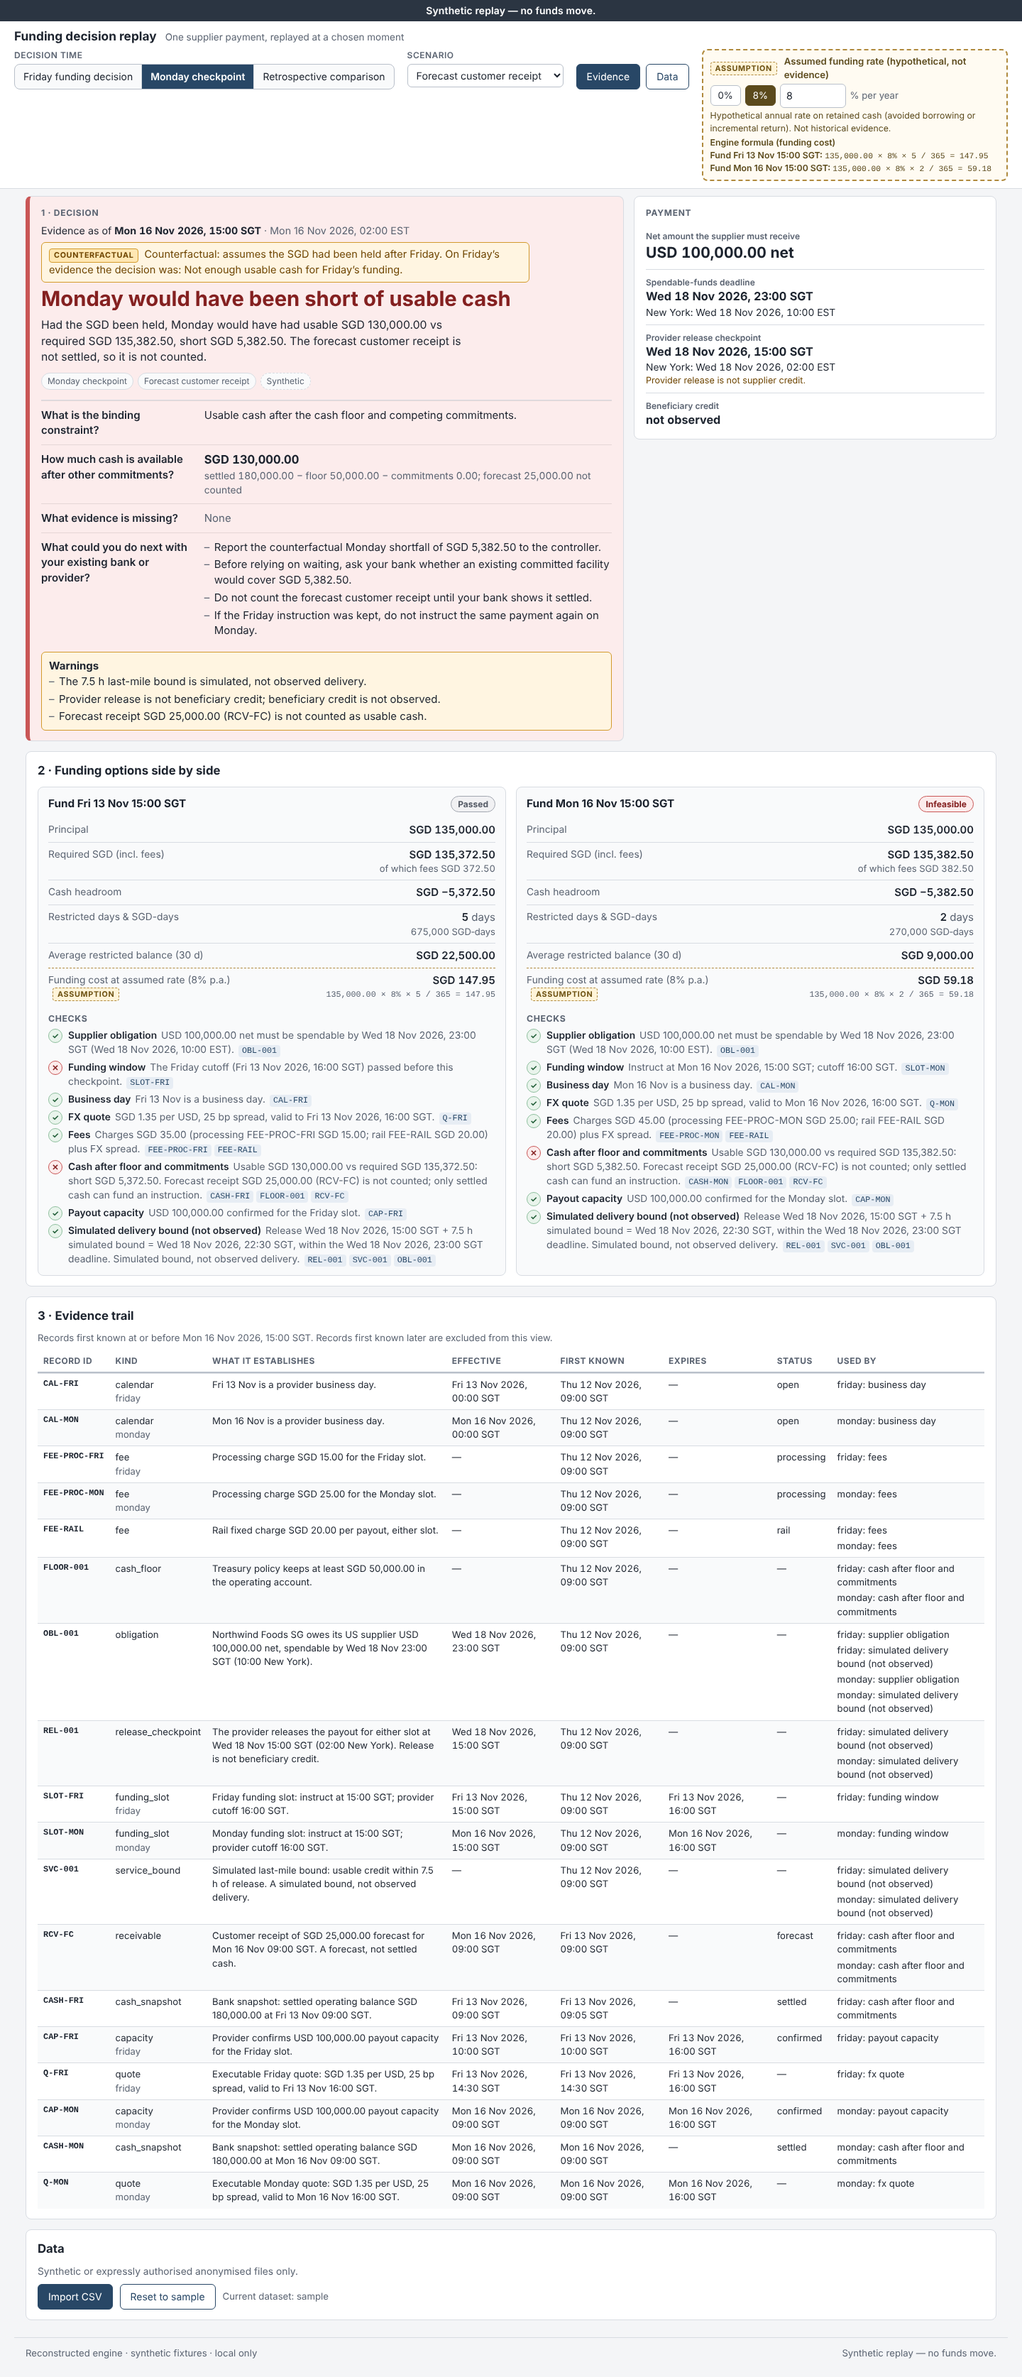
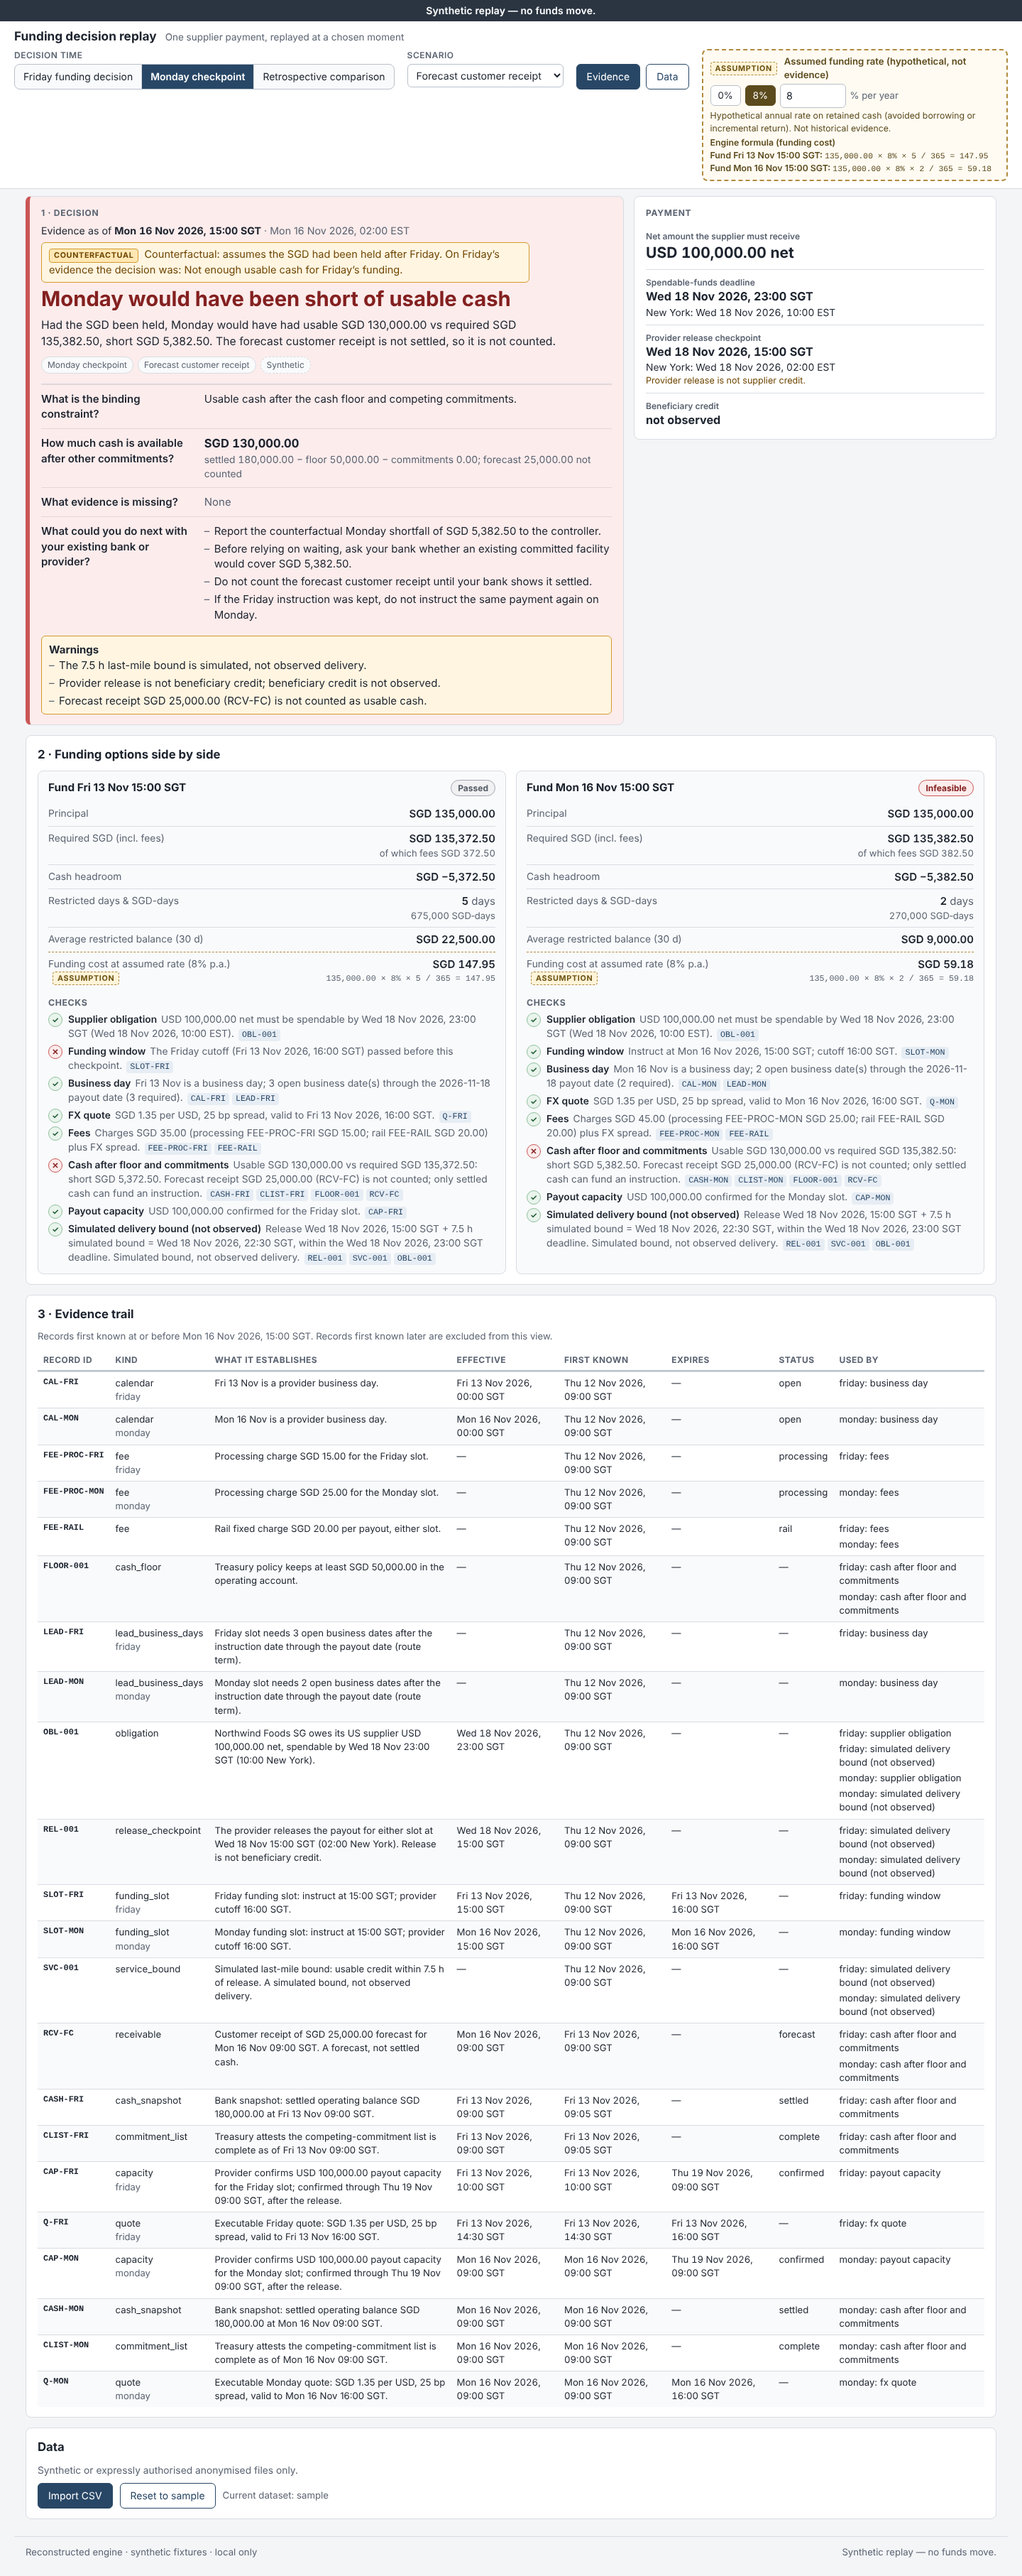
UI: bank-balance check panel (24 h demo policy), no Friday comparison, 9 scenarios; e2e 123 checks; refreshed screenshots
Claude-Session: https://claude.ai/code/session_015s4Kk7vKgcSQ7csnYmEH5j

diff --git a/funding-replay/app/static/app.js b/funding-replay/app/static/app.js
@@ -28,6 +28,7 @@
     HINDSIGHT: 'hindsight',
     MANUAL_REVIEW: 'amber',
     NO_DECISION: 'amber',
+    NEED_NEWER_BALANCE: 'amber',   // unknown, never green: cash is not established either way
     INSUFFICIENT_CASH: 'red',
     DEADLINE_AT_RISK: 'red'
   };
@@ -310,8 +311,43 @@
       noteNode,
       el('p', { class: 'headline', id: 'headline', text: show(d.headline) }),
       el('p', { class: 'reason', id: 'reason', text: show(d.reason) }),
+      renderBalanceCheck(d),
       chips
     ].filter(Boolean));
+  }
+
+  // decision.balance_check: every value is the engine's string; nothing is derived here
+  // (the age is the engine's age_at_slot, never computed from the timestamps).
+  function renderBalanceCheck(d) {
+    var b = d.balance_check;
+    if (!b) return null;
+    var hasBalance = !isBlank(b.balance_sgt) || !isBlank(b.balance_id);
+    var balanceNode = hasBalance
+      ? el('span', null, [
+          el('span', { class: 'num bc-main', text: show(b.balance_sgt) }),
+          isBlank(b.balance_id) ? null : el('span', { class: 'bc-sub num', text: b.balance_id +
+            (isBlank(b.balance_known_sgt) ? '' : ' · known ' + b.balance_known_sgt) }),
+          isBlank(b.expired_sgt) ? null : el('span', { class: 'bc-sub num', text: 'expired ' + b.expired_sgt })
+        ])
+      : el('span', { class: 'bc-main', text: 'None on file' });
+    var slotName = isBlank(b.slot) ? 'funding' : b.slot;
+    var ageNode = el('span', null, [
+      el('span', { class: 'num bc-main', id: 'bc-age', text: isBlank(b.age_at_slot) ? DASH : b.age_at_slot }),
+      isBlank(b.slot_sgt) ? null : el('span', { class: 'bc-sub num', text: 'at ' + b.slot_sgt })
+    ]);
+    var actions = Array.isArray(d.next_actions) ? d.next_actions : [];
+    function row(label, node, cls) {
+      return el('div', { class: 'bc-row' + (cls ? ' ' + cls : '') }, [el('dt', { text: label }), el('dd', null, node)]);
+    }
+    return el('section', { class: 'balance-check bc-' + (b.problem || 'unknown'), id: 'balance-check', 'aria-label': 'Bank balance check' }, [
+      el('h3', { class: 'bc-title', text: b.problem === 'missing' ? 'Bank balance check: no balance on file' : 'Bank balance check: balance too old' }),
+      el('dl', { class: 'bc-rows' }, [
+        row('Newest bank balance', balanceNode),
+        row('Age at the ' + slotName + ' slot', ageNode),
+        row('Limit', el('span', { class: 'bc-main', text: show(b.limit) })),
+        actions.length ? row('Next action', el('span', { class: 'bc-main', id: 'bc-next', text: actions[0] }), 'bc-row-wide') : null
+      ])
+    ]);
   }
 
   function renderPayment(ctx) {
@@ -494,8 +530,6 @@
     var mode, heading;
     if (d.actionable_on_friday === false) {
       mode = 'hindsight'; heading = 'Hindsight only — not available to the operator on Friday';
-    } else if (d.state === 'MANUAL_REVIEW') {
-      mode = 'conditional'; heading = 'Conditional — verify terms first; not a recommendation to wait';
     } else if (d.state === 'HINDSIGHT') {
       mode = 'hindsight'; heading = 'Hindsight view';
     } else {

diff --git a/funding-replay/app/static/app.css b/funding-replay/app/static/app.css
@@ -209,7 +209,7 @@ main { max-width: 1400px; margin: 0 auto; padding: 10px var(--gutter) 24px; }
 .tone-amber .headline { color: var(--amber-text); }
 .tone-red .headline { color: var(--red-text); }
 .tone-hindsight .headline { color: var(--hind-text); }
-.reason { font-size: 1.05rem; max-width: 62ch; }
+.reason { font-size: 1.05rem; max-width: 75ch; }
 .chip-row { display: flex; flex-wrap: wrap; gap: 6px; margin-top: 10px; }
 .chip { font-size: 0.8rem; padding: 2px 8px; border-radius: 999px; background: var(--surface-2); border: 1px solid var(--border); color: var(--muted); }
 .chip-synth { border-style: dashed; }
@@ -279,8 +279,6 @@ main { max-width: 1400px; margin: 0 auto; padding: 10px var(--gutter) 24px; }
 .comparison { margin-top: 14px; border-radius: var(--radius); padding: 12px 14px; border: 1px solid var(--border); }
 .comparison h3 { font-size: 1rem; margin-bottom: 6px; }
 .comp-hindsight { background: var(--hind-bg); color: var(--hind-text); border-style: dashed; border-color: #a2a7b0; }
-.comp-conditional { background: var(--amber-bg); border-color: var(--amber-border); border-style: dashed; }
-.comp-conditional h3 { color: var(--amber-text); }
 .comp-withheld { background: var(--surface-2); border-style: dashed; }
 .comp-plain { background: var(--surface-2); }
 .framing { margin-bottom: 8px; max-width: 80ch; }
@@ -339,3 +337,17 @@ table.evidence td:last-child { min-width: 12em; }
 .risk-note { margin-top: 6px; font-size: 0.95rem; font-weight: 600; color: var(--red-text); }
 .formula-inline { display: block; font-size: 0.78rem; margin-top: 2px; }
 .formula-line { display: block; }
+
+/* Bank balance check (decision.balance_check) — amber: cash is unknown, not short and not fine */
+.balance-check { margin: 6px 0 4px; padding: 6px 12px; border: 1px solid var(--amber-border); border-radius: 6px; background: var(--surface); }
+.bc-title { margin: 0 0 4px; font-size: 0.82rem; font-weight: 700; text-transform: uppercase; letter-spacing: 0.04em; color: var(--amber-text); }
+.bc-rows { display: grid; grid-template-columns: minmax(0, 1.5fr) minmax(0, 1fr) minmax(0, 1.2fr); gap: 6px 16px; margin: 0; }
+.bc-row { min-width: 0; }
+.bc-row dt { font-size: 0.8rem; color: var(--muted); margin: 0 0 1px; }
+.bc-row dd { margin: 0; }
+.bc-row-wide { grid-column: 1 / -1; border-top: 1px dashed var(--amber-border); padding-top: 4px; display: flex; gap: 8px; align-items: baseline; }
+.bc-row-wide dt { flex: none; }
+.bc-main { font-weight: 600; overflow-wrap: anywhere; }
+.bc-sub { display: block; font-size: 0.8rem; color: var(--muted); }
+#bc-age { font-size: 1.15rem; }
+@media (max-width: 700px) { .bc-rows { grid-template-columns: 1fr; } }
